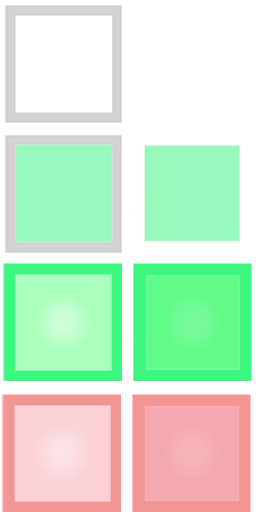
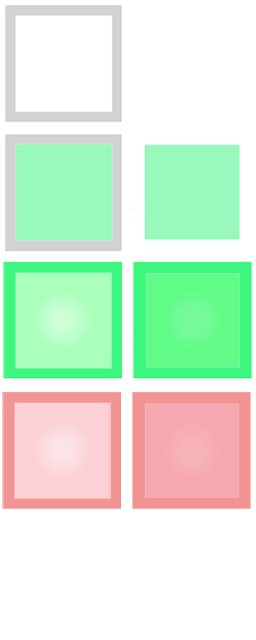
Passing new cube art asset

diff --git a/Game/js/Cube.js b/Game/js/Cube.js
@@ -8,10 +8,10 @@ function Cube(game, key, locationX, locationY){
     this.animations.add('normalHighlight', [1, 0], 3, true);
     this.animations.add('green', [2], 2, true);
     this.animations.add('greenHighlight', [3, 2], 3, false);
-    this.animations.add('normalcorrect',[4,0,4,0], 4, false);
-    this.animations.add('greencorrect',[5,2,5,2], 3, false);
-    this.animations.add('normalincorrect',[6,0,6,0], 3, false);
-    this.animations.add('greenincorrect',[7,2,7,2], 3, false);
+    this.animations.add('normalcorrect',[4,0], 2, false);
+    this.animations.add('greencorrect',[5,2], 2, false);
+    this.animations.add('normalincorrect',[6,0], 2, false);
+    this.animations.add('greenincorrect',[7,2], 2, false);
     this.animations.play('green');
 
     // reference to if this is the cube currently highlighted
